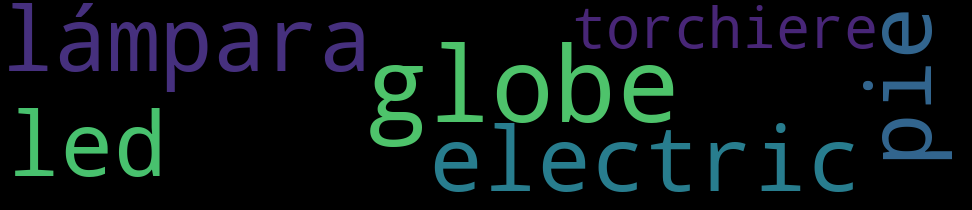
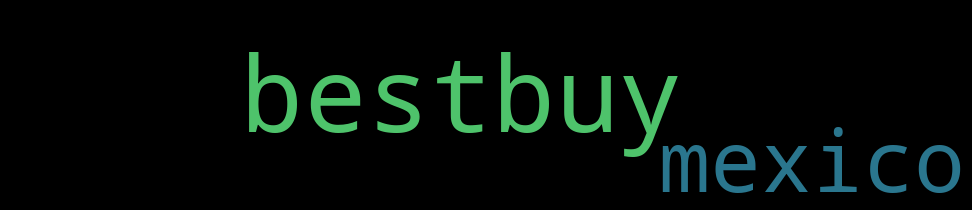
cambios efren

diff --git a/app.py b/app.py
@@ -21,13 +21,13 @@ import plotly
 import plotly.graph_objects as go
 
 
-SQL = sql_connection_class.sql_connection()
-query_str = "SELECT * FROM similar_web_raw where main_category not in ('N/A') limit 5000"
-df = SQL.exec_query(query_str)
+# SQL = sql_connection_class.sql_connection()
+# query_str = "SELECT * FROM similar_web_raw where main_category not in ('N/A') limit 5000"
+# df = SQL.exec_query(query_str)
 
-print(df.columns)
-print(df['main_category'].head())
-# df = pd.read_csv('MOCK_DATA.csv')
+# print(df.columns)
+# print(df['main_category'].head())
+df = pd.read_csv('MOCK_DATA.csv')
 
 app = Dash(__name__, external_stylesheets=[dbc.themes.LUX])
 
@@ -116,7 +116,7 @@ app.layout = dbc.Container([
         dbc.Col([
             dbc.Card([
                 dbc.CardBody([
-                    dcc.Graph(figure=plot_wordcloud(df))
+                    dcc.Graph(figure=plot_wordcloud(df,'estimated_views'))
                 ])
             ]),
         ]),

diff --git a/graficas.py b/graficas.py
@@ -55,10 +55,11 @@ def TemporalGraph2(t,y1,y2):
     return(fig)
 
 
+
 ################################################## 
 ######### Nube de Palabras por categoría #########
 ##################################################
-def plot_wordcloud(df,data_type):
+def plot_wordcloud(df1,data_type):
 #def plot_wordcloud(df,category,data_type):
 #    df1 = df[df['main_category'].str.contains(category)]
     df1['tokenized_title']=df1['title'].str.split(" ",expand = False)
@@ -74,7 +75,7 @@ def plot_wordcloud(df,data_type):
     text2 = text1.replace(',','')
     wc = WordCloud(background_color='white', width=1080, height=360)
     wc.generate(text2)
-    return wc.to_image()
+    img = wc.to_image() 
 
     # Convert the image string to numpy array and create a
     # Plotly figure, see https://plotly.com/python/imshow/
